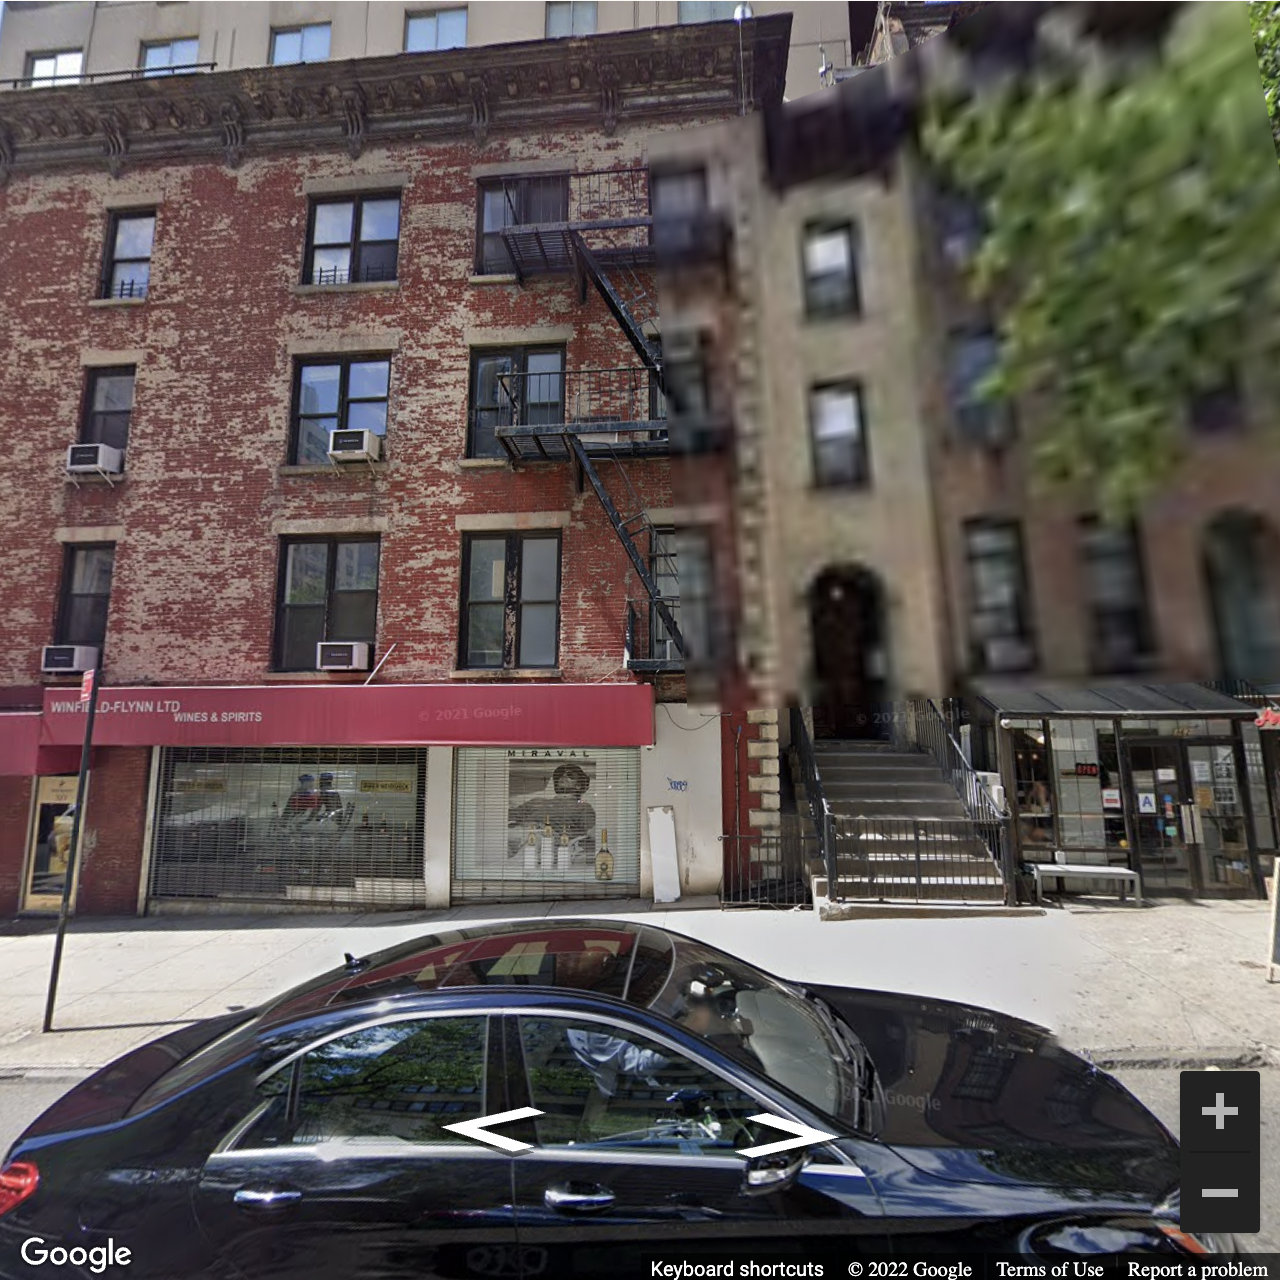
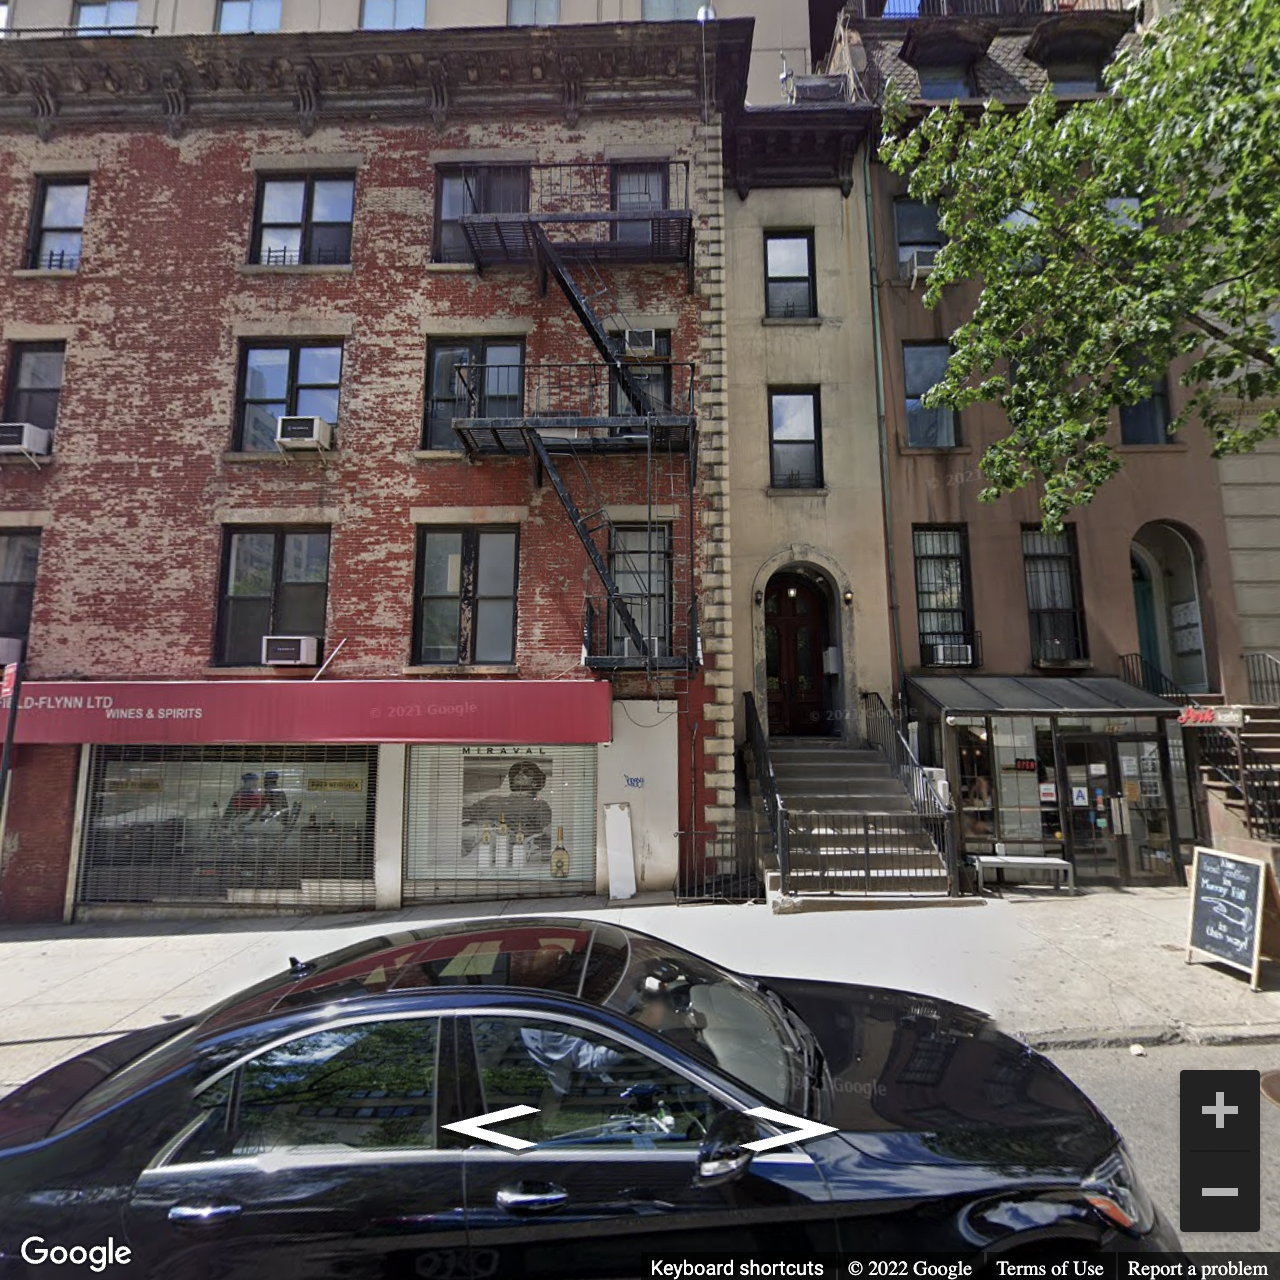
Update screenshot region

diff --git a/src/pyautogui/automate_doorfront.py b/src/pyautogui/automate_doorfront.py
@@ -11,21 +11,22 @@ import pyautogui
 
 
 gsv_img = pyautogui.screenshot(
-        imageFilename = 'images/0gsv.png',
-        # Get the coordinates of the mouse on the screen (macOS):
-        # hot key: command + shift + 4
-        # gsv top_left_corner coordinate: 24, 289
-        # gsv bottom_right_corner coordinate: 664, 929
-        # iMac M1 Screen bottom_right_corner Coordinate: 2239, 1259
-        # iMac M1 Screen Resolution: 4480 × 2520
-        # => gsv Size: (664 - 24) * 2 = 1280, (929 - 289) * 2 = 1280
-        region=(48, 578, 1280, 1280)
-    )
+    imageFilename = 'images/0gsv.png',
+    # Get the coordinates of the mouse on the screen (macOS):
+    # hot key: command + shift + 4
+    # gsv top_left coordinate: 24, 289.5
+    # gsv bottom_right coordinate: 664, 929.5
+    # iMac M1 Screen bottom_right Coordinate: 2239, 1259
+    # iMac M1 Screen Resolution: 4480 × 2520
+    # => gsv Size: (664 - 24) * 2 = 1280, (929.5 - 289.5) * 2 = 1280
+    region=(48, 579, 1280, 1280))
 print(gsv_img)
+
 # On a 1920 x 1080 screen,
 # the screenshot() function takes roughly 100 milliseconds
 time.sleep(0.3)
-# Initial: Heading: 204, Pitch: 8, Zoom: 1
+
+# Initial: Heading: 208, Pitch: 8, Zoom: 1
 pyautogui.moveTo(403, 855)
 pyautogui.click()
 pyautogui.click()
@@ -33,13 +34,11 @@ pyautogui.click()
 time.sleep(1.7)
 
 for i in range(3):
-    
     gsv_img = pyautogui.screenshot(
         imageFilename = 'images/' + str(i + 1) + 'gsv.png',
-        region=(48, 578, 1280, 1280)
+        region=(48, 579, 1280, 1280)
     )
     print(gsv_img)
-    
     time.sleep(0.3)
     pyautogui.click()
     time.sleep(1.7)
